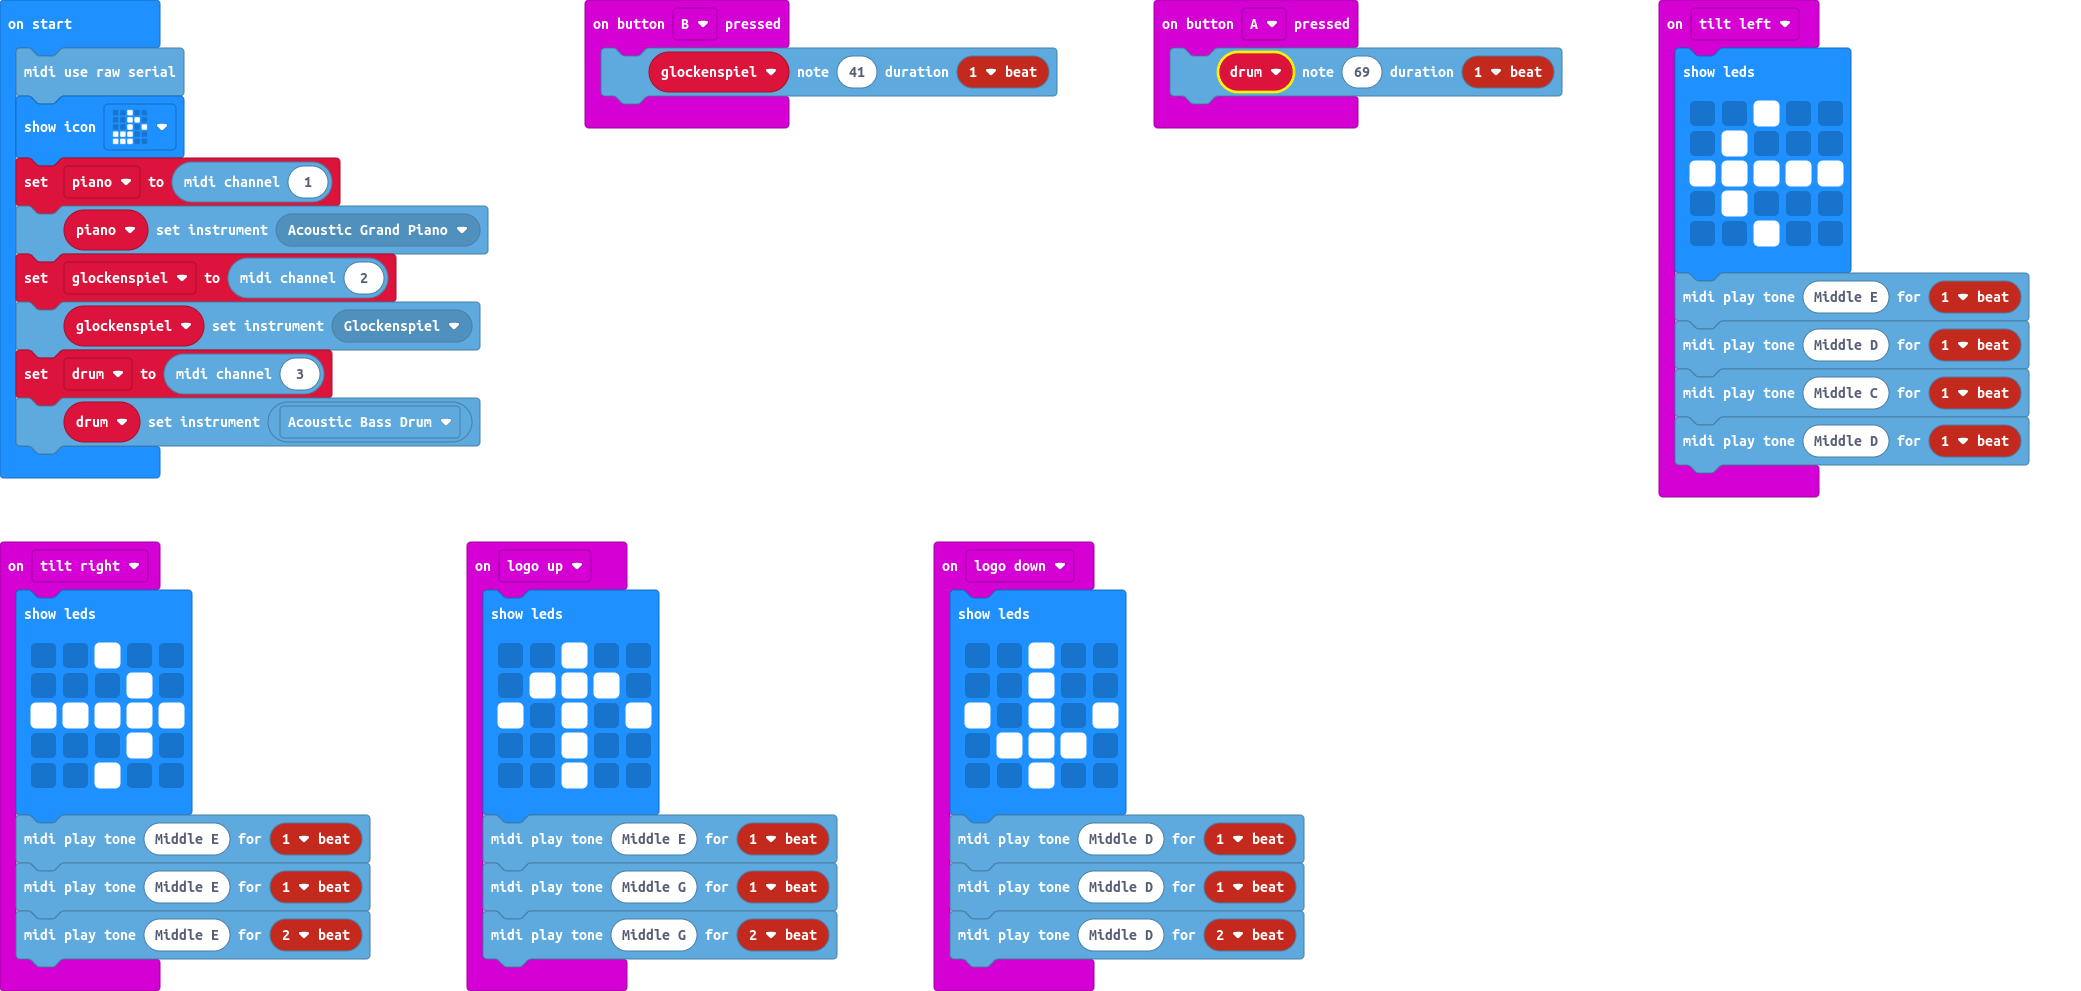
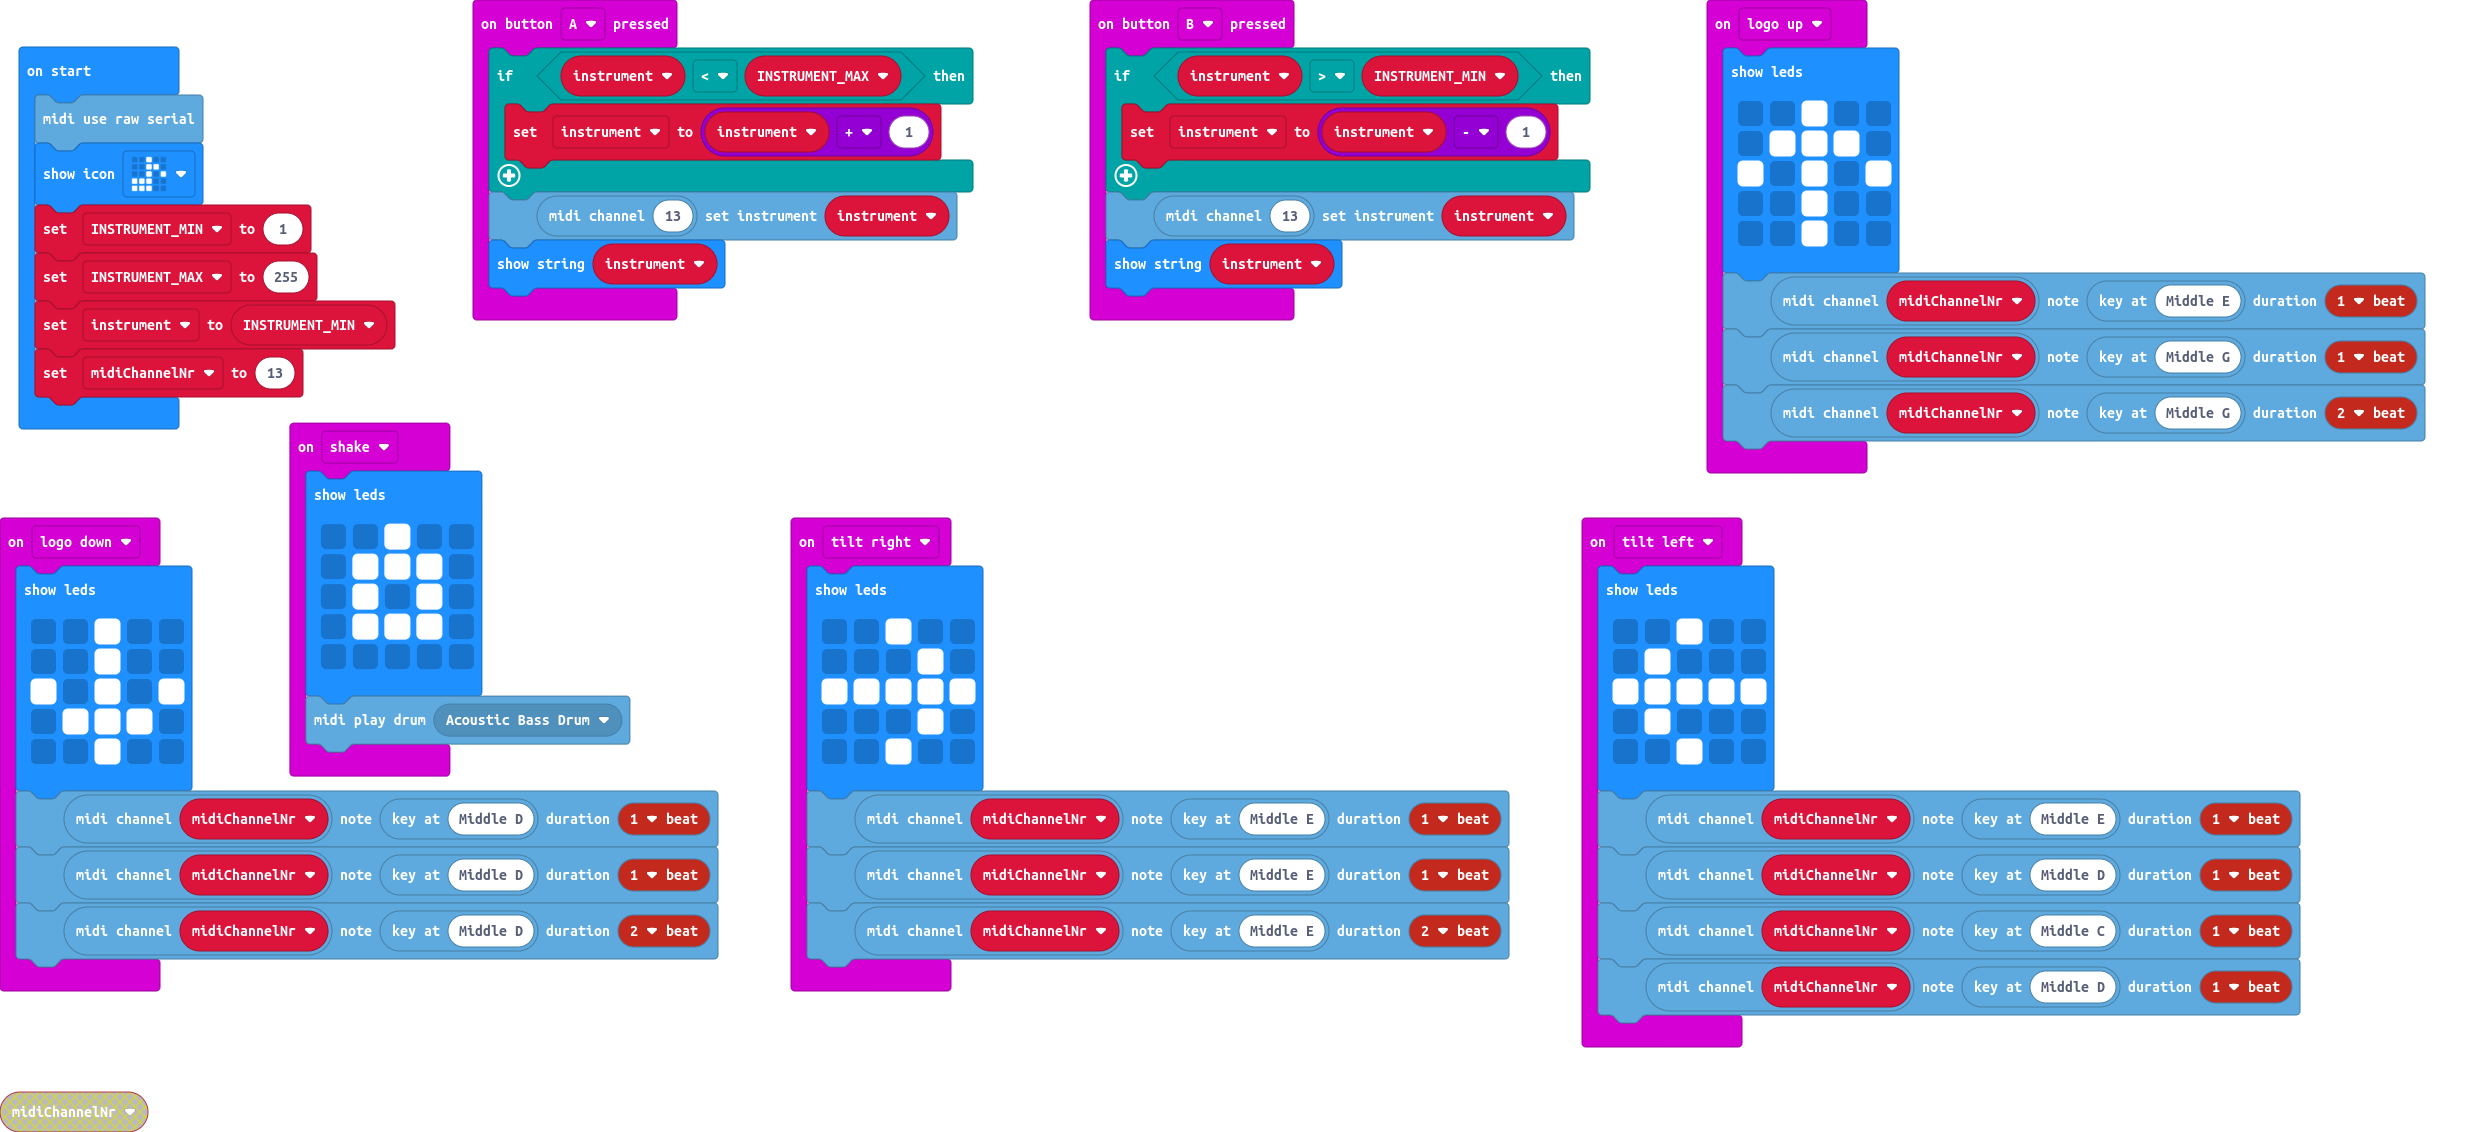
Use Variables for instrument and midiChannelNr

diff --git a/main.ts b/main.ts
@@ -1,5 +1,9 @@
 input.onButtonPressed(Button.A, function () {
-    drum.note(69, music.beat(BeatFraction.Whole))
+    if (instrument < INSTRUMENT_MAX) {
+        instrument = instrument + 1
+    }
+    midi.channel(13).setInstrument(instrument)
+    basic.showString("" + (instrument))
 })
 input.onGesture(Gesture.LogoUp, function () {
     basic.showLeds(`
@@ -9,9 +13,9 @@ input.onGesture(Gesture.LogoUp, function () {
         . . # . .
         . . # . .
         `)
-    midi.playTone(330, music.beat(BeatFraction.Whole))
-    midi.playTone(392, music.beat(BeatFraction.Whole))
-    midi.playTone(392, music.beat(BeatFraction.Double))
+    midi.channel(midiChannelNr).note(midi.frequencyToKey(330), music.beat(BeatFraction.Whole))
+    midi.channel(midiChannelNr).note(midi.frequencyToKey(392), music.beat(BeatFraction.Whole))
+    midi.channel(midiChannelNr).note(midi.frequencyToKey(392), music.beat(BeatFraction.Double))
 })
 input.onGesture(Gesture.TiltLeft, function () {
     basic.showLeds(`
@@ -21,13 +25,27 @@ input.onGesture(Gesture.TiltLeft, function () {
         . # . . .
         . . # . .
         `)
-    midi.playTone(330, music.beat(BeatFraction.Whole))
-    midi.playTone(294, music.beat(BeatFraction.Whole))
-    midi.playTone(262, music.beat(BeatFraction.Whole))
-    midi.playTone(294, music.beat(BeatFraction.Whole))
+    midi.channel(midiChannelNr).note(midi.frequencyToKey(330), music.beat(BeatFraction.Whole))
+    midi.channel(midiChannelNr).note(midi.frequencyToKey(294), music.beat(BeatFraction.Whole))
+    midi.channel(midiChannelNr).note(midi.frequencyToKey(262), music.beat(BeatFraction.Whole))
+    midi.channel(midiChannelNr).note(midi.frequencyToKey(294), music.beat(BeatFraction.Whole))
 })
 input.onButtonPressed(Button.B, function () {
-    glockenspiel.note(41, music.beat(BeatFraction.Whole))
+    if (instrument > INSTRUMENT_MIN) {
+        instrument = instrument - 1
+    }
+    midi.channel(13).setInstrument(instrument)
+    basic.showString("" + (instrument))
+})
+input.onGesture(Gesture.Shake, function () {
+    basic.showLeds(`
+        . . # . .
+        . # # # .
+        . # . # .
+        . # # # .
+        . . . . .
+        `)
+    midi.playDrum(DrumSound.AcousticBassDrum)
 })
 input.onGesture(Gesture.TiltRight, function () {
     basic.showLeds(`
@@ -37,9 +55,9 @@ input.onGesture(Gesture.TiltRight, function () {
         . . . # .
         . . # . .
         `)
-    midi.playTone(330, music.beat(BeatFraction.Whole))
-    midi.playTone(330, music.beat(BeatFraction.Whole))
-    midi.playTone(330, music.beat(BeatFraction.Double))
+    midi.channel(midiChannelNr).note(midi.frequencyToKey(330), music.beat(BeatFraction.Whole))
+    midi.channel(midiChannelNr).note(midi.frequencyToKey(330), music.beat(BeatFraction.Whole))
+    midi.channel(midiChannelNr).note(midi.frequencyToKey(330), music.beat(BeatFraction.Double))
 })
 input.onGesture(Gesture.LogoDown, function () {
     basic.showLeds(`
@@ -49,17 +67,17 @@ input.onGesture(Gesture.LogoDown, function () {
         . # # # .
         . . # . .
         `)
-    midi.playTone(294, music.beat(BeatFraction.Whole))
-    midi.playTone(294, music.beat(BeatFraction.Whole))
-    midi.playTone(294, music.beat(BeatFraction.Double))
+    midi.channel(midiChannelNr).note(midi.frequencyToKey(294), music.beat(BeatFraction.Whole))
+    midi.channel(midiChannelNr).note(midi.frequencyToKey(294), music.beat(BeatFraction.Whole))
+    midi.channel(midiChannelNr).note(midi.frequencyToKey(294), music.beat(BeatFraction.Double))
 })
-let drum: midi.MidiController = null
-let glockenspiel: midi.MidiController = null
+let midiChannelNr = 0
+let instrument = 0
+let INSTRUMENT_MAX = 0
+let INSTRUMENT_MIN = 0
 midi.useRawSerial()
 basic.showIcon(IconNames.EigthNote)
-let piano = midi.channel(1)
-piano.setInstrument(MidiInstrument.AcousticGrandPiano)
-glockenspiel = midi.channel(2)
-glockenspiel.setInstrument(MidiInstrument.Glockenspiel)
-drum = midi.channel(3)
-drum.setInstrument(DrumSound.AcousticBassDrum)
+INSTRUMENT_MIN = 1
+INSTRUMENT_MAX = 255
+instrument = INSTRUMENT_MIN
+midiChannelNr = 13

diff --git a/main.py b/main.py
@@ -1,0 +1,70 @@
+def on_button_pressed_a():
+    drum.note(69, music.beat(BeatFraction.WHOLE))
+input.on_button_pressed(Button.A, on_button_pressed_a)
+
+def on_gesture_logo_up():
+    basic.show_leds("""
+        . . # . .
+                . # # # .
+                # . # . #
+                . . # . .
+                . . # . .
+    """)
+    midi.play_tone(330, music.beat(BeatFraction.WHOLE))
+    midi.play_tone(392, music.beat(BeatFraction.WHOLE))
+    midi.play_tone(392, music.beat(BeatFraction.DOUBLE))
+input.on_gesture(Gesture.LOGO_UP, on_gesture_logo_up)
+
+def on_gesture_tilt_left():
+    basic.show_leds("""
+        . . # . .
+                . # . . .
+                # # # # #
+                . # . . .
+                . . # . .
+    """)
+    midi.play_tone(330, music.beat(BeatFraction.WHOLE))
+    midi.play_tone(294, music.beat(BeatFraction.WHOLE))
+    midi.play_tone(262, music.beat(BeatFraction.WHOLE))
+    midi.play_tone(294, music.beat(BeatFraction.WHOLE))
+input.on_gesture(Gesture.TILT_LEFT, on_gesture_tilt_left)
+
+def on_button_pressed_b():
+    midi.channel(14).note(41, music.beat(BeatFraction.WHOLE))
+input.on_button_pressed(Button.B, on_button_pressed_b)
+
+def on_gesture_tilt_right():
+    basic.show_leds("""
+        . . # . .
+                . . . # .
+                # # # # #
+                . . . # .
+                . . # . .
+    """)
+    midi.play_tone(330, music.beat(BeatFraction.WHOLE))
+    midi.play_tone(330, music.beat(BeatFraction.WHOLE))
+    midi.play_tone(330, music.beat(BeatFraction.DOUBLE))
+input.on_gesture(Gesture.TILT_RIGHT, on_gesture_tilt_right)
+
+def on_gesture_logo_down():
+    basic.show_leds("""
+        . . # . .
+                . . # . .
+                # . # . #
+                . # # # .
+                . . # . .
+    """)
+    midi.play_tone(294, music.beat(BeatFraction.WHOLE))
+    midi.play_tone(294, music.beat(BeatFraction.WHOLE))
+    midi.play_tone(294, music.beat(BeatFraction.DOUBLE))
+input.on_gesture(Gesture.LOGO_DOWN, on_gesture_logo_down)
+
+drum: midi.MidiController = None
+midi.use_raw_serial()
+basic.show_icon(IconNames.EIGTH_NOTE)
+piano = midi.channel(1)
+piano.set_instrument(MidiInstrument.ACOUSTIC_GRAND_PIANO)
+glockenspiel = midi.channel(2)
+glockenspiel.set_instrument(MidiInstrument.GLOCKENSPIEL)
+drum = midi.channel(3)
+drum.set_instrument(DrumSound.ACOUSTIC_BASS_DRUM)
